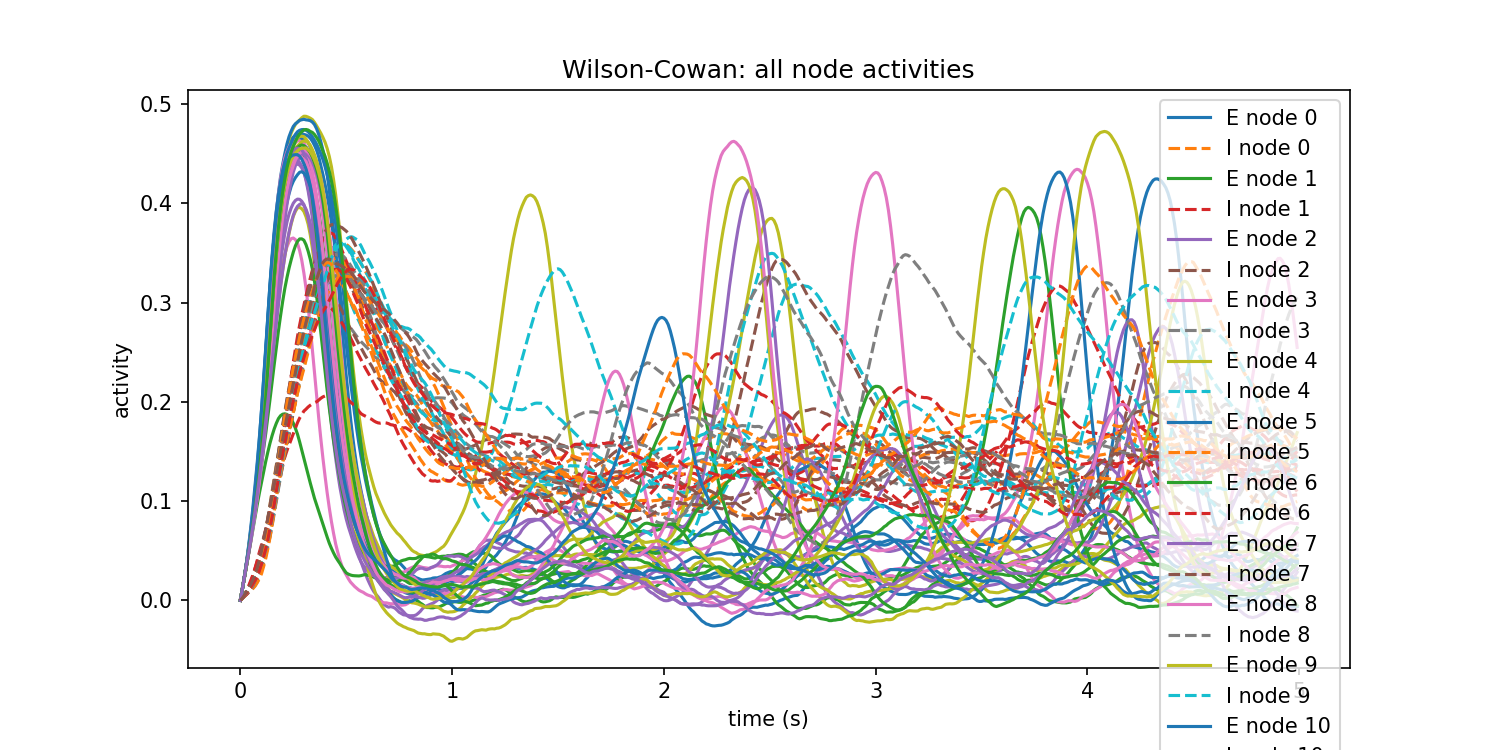
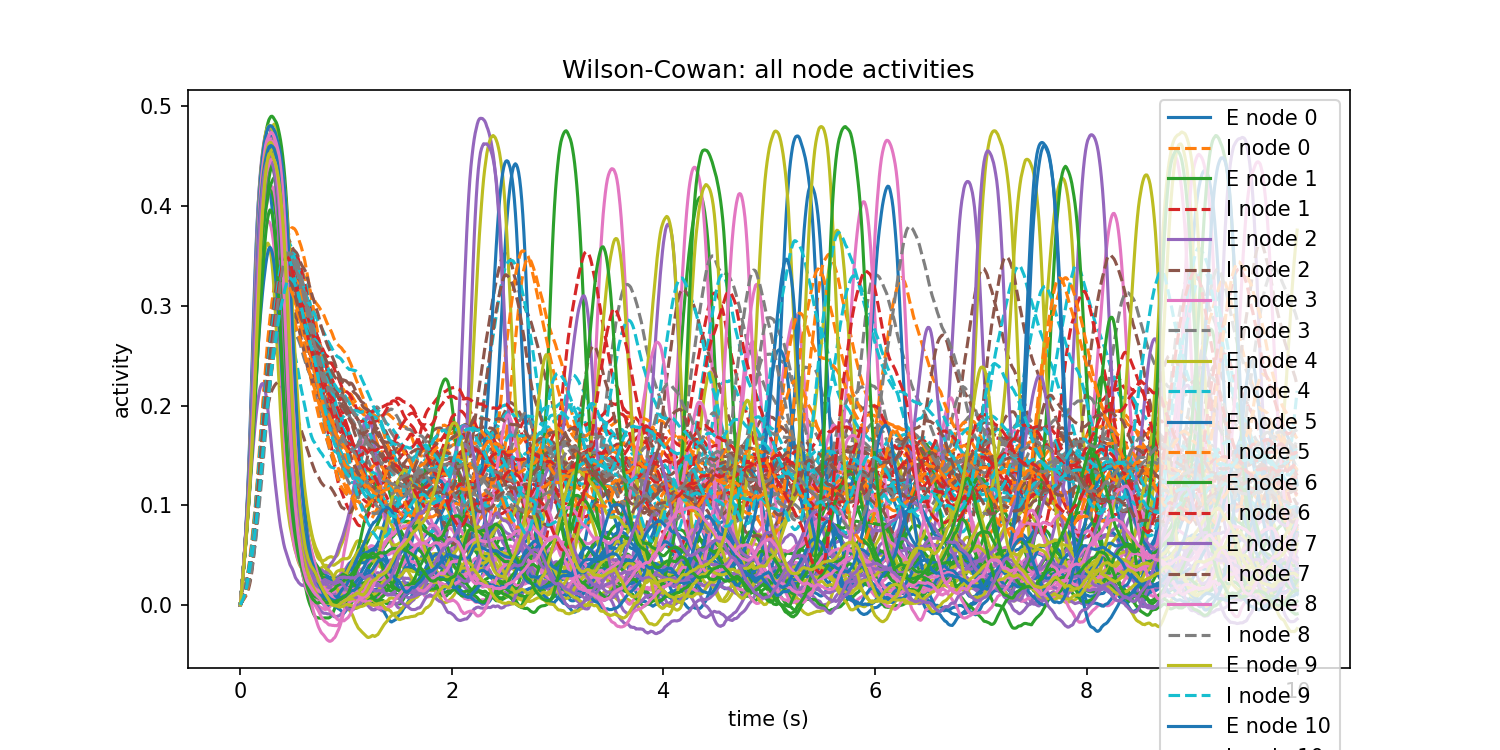
testing compile vs execution time

diff --git a/neurolib2/examples/wilsonCowanExample.py b/neurolib2/examples/wilsonCowanExample.py
@@ -17,7 +17,7 @@ print("fiber count matrix shape:", ds.Cmat.shape)
 print("fiber length matrix shape:", ds.Dmat.shape)
 
 # Select first 4 regions
-indices = slice(0, 48)
+indices = slice(0, 50)
 
 C_small = ds.Cmat[indices, indices]
 D_small = ds.Dmat[indices, indices]
@@ -29,16 +29,38 @@ from neurolib2.models.wilsonCowanModel.wilsonCowanModel import WilsonCowan
 
 # Example: run simulation when module executed as script
 if __name__ == "__main__":
-    start_time = time.time()  # start timer
-    model = WilsonCowan.create_default(dt=0.01, fiber_length_matrix=D_small, fiber_count_matrix=C_small)
     # model = WilsonCowan.create_default(dt=0.01)
-    times, states = model.simulate(5.0)
-    # states.block_until_ready()
-    model.plot(times, states)
-    print(states)
+    model = WilsonCowan.create_default(
+        dt=0.01,
+        fiber_length_matrix=D_small,
+        fiber_count_matrix=C_small,
+    )
+
+    print("Model initialized.")
+    print("Enter duration (q to quit)")
     
-    end_time = time.time()  # end timer
-    elapsed = end_time - start_time
-    print(f"Simulation took {elapsed:.2f} seconds")
+    while True:
+        user_input = input("Duration: ")
+
+        if user_input.lower() == "q":
+            break
+
+        try:
+            duration = float(user_input)
+        except ValueError:
+            print("Please enter a valid number.")
+            continue
+
+        start = time.time()
+
+        times, states = model.simulate(duration)
+        model.plot(times, states)
+        states.block_until_ready()   # IMPORTANT for correct timing
+
+        end = time.time()
+
+        print(f"Run took {end - start:.2f} seconds")
+        print("States shape:", states.shape)
+    
     # grad_model = model.derivative_model(10.0, with_respect_to=["tau_e", "w_ee"])
     # print(grad_model.tau_e, grad_model.w_ee)
